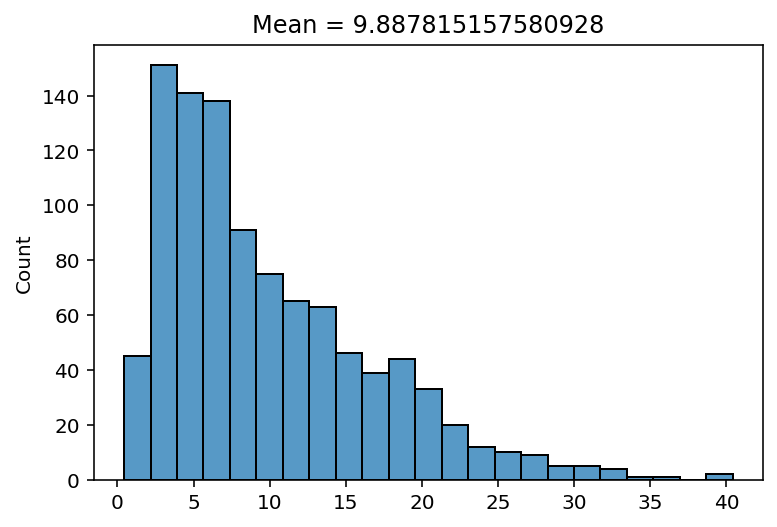
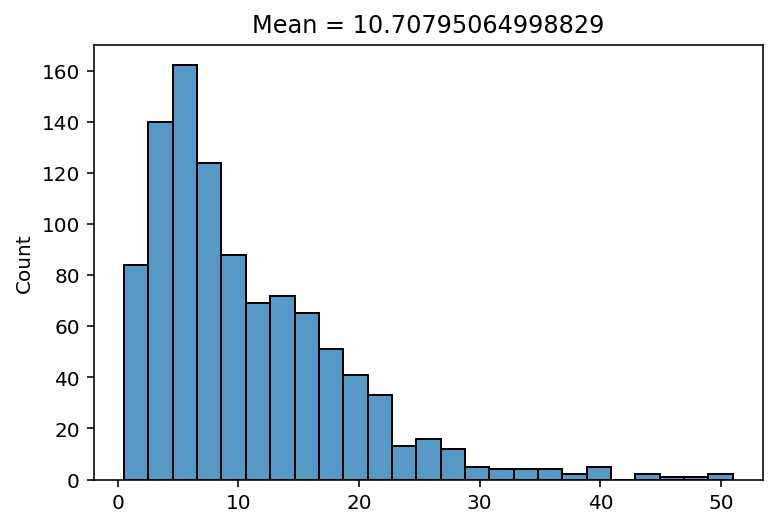
Added slides to notebook

diff --git a/experiments/sched-sim.html b/experiments/sched-sim.html
@@ -165,7 +165,7 @@ code span.wa { color: #60a0b0; font-weight: bold; font-style: italic; } /* Warni
 <span id="cb1-43"><a href="#cb1-43" aria-hidden="true" tabindex="-1"></a><span class="co"># sts = np.random.poisson(lam=14, size=1000)</span></span>
 <span id="cb1-44"><a href="#cb1-44" aria-hidden="true" tabindex="-1"></a>sts <span class="op">=</span> np.random.lognormal(mean <span class="op">=</span> logn_mean_sd(<span class="dv">14</span>, <span class="dv">5</span>)[<span class="dv">0</span>], sigma<span class="op">=</span>logn_mean_sd(<span class="dv">14</span>, <span class="dv">5</span>)[<span class="dv">1</span>], size<span class="op">=</span><span class="dv">1000</span>)</span>
 <span id="cb1-45"><a href="#cb1-45" aria-hidden="true" tabindex="-1"></a>ns <span class="op">=</span> <span class="fl">0.0</span></span>
-<span id="cb1-46"><a href="#cb1-46" aria-hidden="true" tabindex="-1"></a>nSims <span class="op">=</span> <span class="dv">1000</span></span>
+<span id="cb1-46"><a href="#cb1-46" aria-hidden="true" tabindex="-1"></a>nSims <span class="op">=</span> <span class="dv">1000</span> <span class="co"># number of simulations</span></span>
 <span id="cb1-47"><a href="#cb1-47" aria-hidden="true" tabindex="-1"></a>logs <span class="op">=</span> <span class="va">False</span></span></code><button title="Copy to Clipboard" class="code-copy-button"><i class="bi"></i></button></pre></div>
 </div>
 </section>
@@ -192,7 +192,7 @@ code span.wa { color: #60a0b0; font-weight: bold; font-style: italic; } /* Warni
 <div class="sourceCode cell-code" id="cb3"><pre class="sourceCode python code-with-copy"><code class="sourceCode python"><span id="cb3-1"><a href="#cb3-1" aria-hidden="true" tabindex="-1"></a>fig <span class="op">=</span> sns.histplot(simRes)</span>
 <span id="cb3-2"><a href="#cb3-2" aria-hidden="true" tabindex="-1"></a>fig.<span class="bu">set</span>(title<span class="op">=</span><span class="ss">f"Mean = </span><span class="sc">{</span>mwt<span class="sc">}</span><span class="ss">"</span>)</span></code><button title="Copy to Clipboard" class="code-copy-button"><i class="bi"></i></button></pre></div>
 <div class="cell-output cell-output-display" data-execution_count="3">
-<pre><code>[Text(0.5, 1.0, 'Mean = 3.815324707533638')]</code></pre>
+<pre><code>[Text(0.5, 1.0, 'Mean = 4.011757245447204')]</code></pre>
 </div>
 <div class="cell-output cell-output-display">
 <p><img src="sched-sim_files/figure-html/cell-4-output-2.png" class="img-fluid"></p>
@@ -222,7 +222,7 @@ code span.wa { color: #60a0b0; font-weight: bold; font-style: italic; } /* Warni
 <div class="sourceCode cell-code" id="cb6"><pre class="sourceCode python code-with-copy"><code class="sourceCode python"><span id="cb6-1"><a href="#cb6-1" aria-hidden="true" tabindex="-1"></a>fig <span class="op">=</span> sns.histplot(simRes)</span>
 <span id="cb6-2"><a href="#cb6-2" aria-hidden="true" tabindex="-1"></a>fig.<span class="bu">set</span>(title<span class="op">=</span><span class="ss">f"Mean = </span><span class="sc">{</span>mwt<span class="sc">}</span><span class="ss">"</span>)</span></code><button title="Copy to Clipboard" class="code-copy-button"><i class="bi"></i></button></pre></div>
 <div class="cell-output cell-output-display" data-execution_count="5">
-<pre><code>[Text(0.5, 1.0, 'Mean = 9.887815157580928')]</code></pre>
+<pre><code>[Text(0.5, 1.0, 'Mean = 10.70795064998829')]</code></pre>
 </div>
 <div class="cell-output cell-output-display">
 <p><img src="sched-sim_files/figure-html/cell-6-output-2.png" class="img-fluid"></p>
@@ -252,7 +252,7 @@ code span.wa { color: #60a0b0; font-weight: bold; font-style: italic; } /* Warni
 <div class="sourceCode cell-code" id="cb9"><pre class="sourceCode python code-with-copy"><code class="sourceCode python"><span id="cb9-1"><a href="#cb9-1" aria-hidden="true" tabindex="-1"></a>fig <span class="op">=</span> sns.histplot(simRes)</span>
 <span id="cb9-2"><a href="#cb9-2" aria-hidden="true" tabindex="-1"></a>fig.<span class="bu">set</span>(title<span class="op">=</span><span class="ss">f"Mean = </span><span class="sc">{</span>mwt<span class="sc">}</span><span class="ss">"</span>)</span></code><button title="Copy to Clipboard" class="code-copy-button"><i class="bi"></i></button></pre></div>
 <div class="cell-output cell-output-display" data-execution_count="7">
-<pre><code>[Text(0.5, 1.0, 'Mean = 23.087660434311047')]</code></pre>
+<pre><code>[Text(0.5, 1.0, 'Mean = 23.290780080943005')]</code></pre>
 </div>
 <div class="cell-output cell-output-display">
 <p><img src="sched-sim_files/figure-html/cell-8-output-2.png" class="img-fluid"></p>
